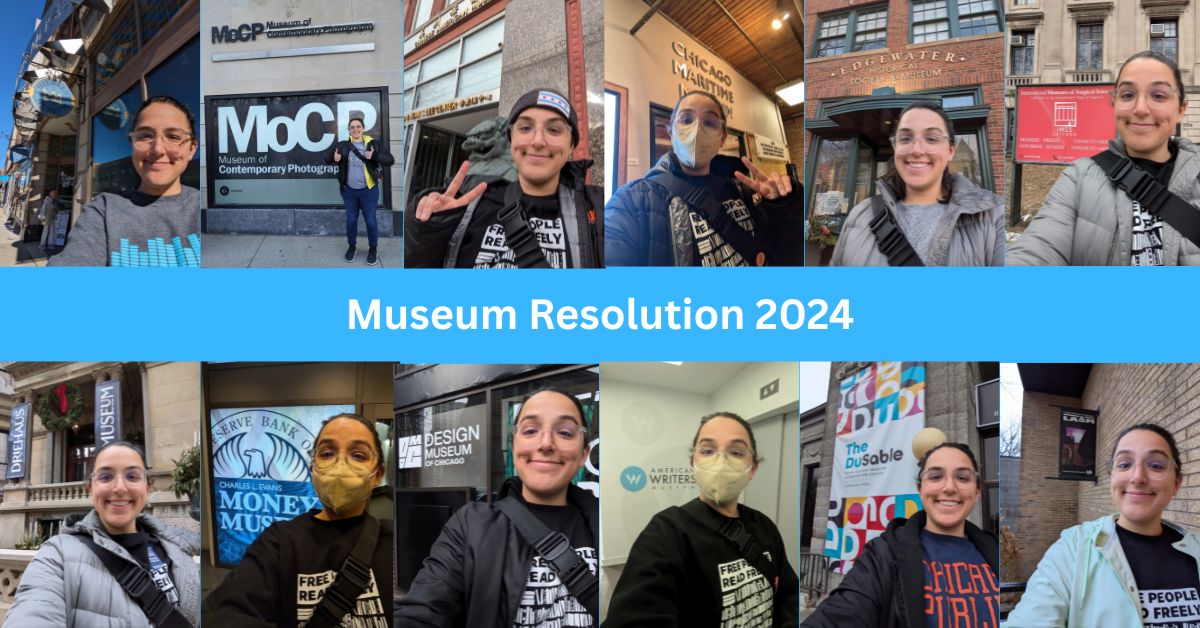
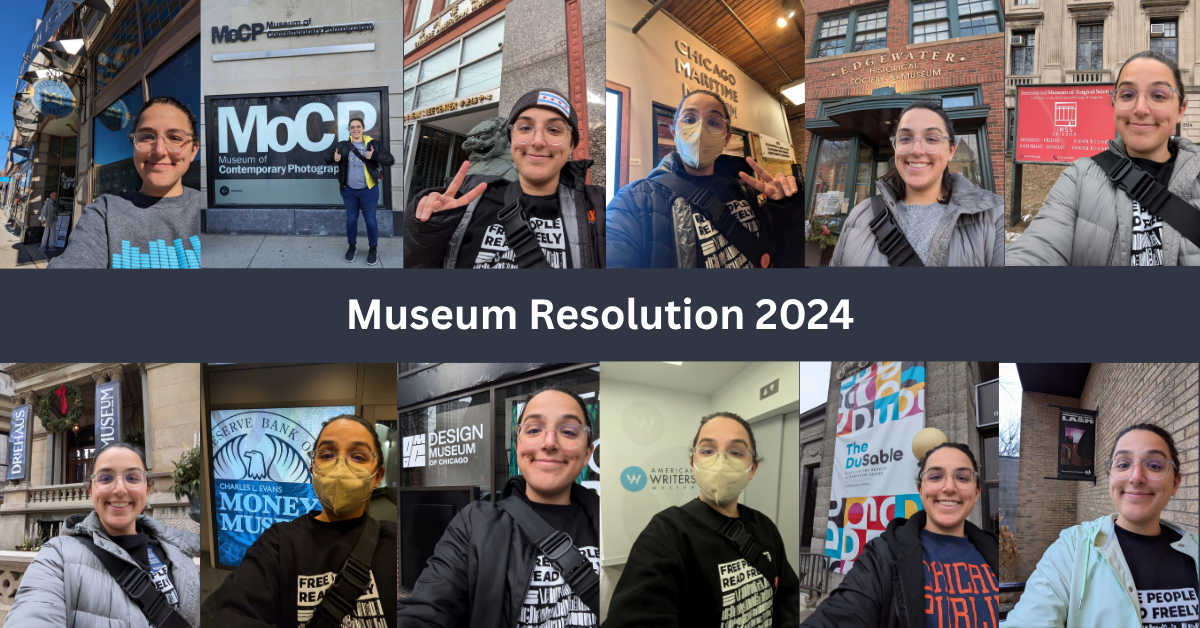
final? post content

diff --git a/_posts/2026-08-25-museum-resolution.md b/_posts/2026-08-25-museum-resolution.md
@@ -2,15 +2,79 @@
 title: "My Year of Museums"
 date: 2026-08-26 17:00:00 -0500
 categories: [Chicago]
-description: "In 2024, I set a New Year's resolution to visit twelve new-to-me museums in Chicago. Here's how it went."  
+description: "In 2024, I set a new year's resolution to visit twelve new-to-me museums in Chicago. Here's how it went."  
 image:
   path: /assets/img/posts/museum_resolution_header.png
-  alt: ["A diagram showing a bus icon labeled 'vehicle', a rightward arrow, and then a person icon labeled 'rider'"]
+  alt: ["Selfies of me outside a bunch of museums in Chicago with the label 'Museum Resolution 2024'"]
 ---
 
 # My Museum Resolution
 
+Like many people, I have had an ambivalent relationship with new year's resolutions. I've often vaguely tried to instill better habits or quit bad ones, usually without much commitment or success. A couple of years ago, though, I was inspired by a screenshot of a Tumblr post to try a new approach: 
+
+!["Screenshot of a Tumblr post that says: 'every time i ask people if they do any new years resolutions its all ooooo i dont like making them bc i fail or ohhhhh no i couldnt keep up wiht that and then when they ask me and i tell them about Pasta Quest (i am eating as many different pasta shapes as possible in the space of a year) or when i did Fruit Adventures (every time i saw a fruit i had never eaten before id get one and eat it and read the wikipedia article about it) theyre like hang on i forgot you can make Fun Ones i want a fun one'"](/assets/img/posts/you-can-make-fun-ones.png){: width="250" }
+_"i forgot you can make Fun Ones i want a fun one"_
+
+So, in 2024, I chose a "fun" resolution. Influenced partially by the then-forthcoming opening of the National Public Housing Museum (more on that later), I decided to visit 12 museums that:
+
+1. I had never been to before
+2. Are located inside the city of Chicago
+3. Have the word "museum" in their name
+
+The 2nd and 3rd requirements are admittedly pretty arbitrary but I wanted to explore the city specifically and I wanted to give myself a rule up front about what "counts" as a museum. 
+
+The 1st criterion ruled out (in no particular order): the Field Museum, the Museum of Science and Industry, the National Museum of Mexican Art, the Smart Museum, the Chicago History Museum, the Institute for the Study of Ancient Cultures Museum, the Museum of Contemporary Art, and possibly others. The Art Institute, Newberry Library, Cultural Center, Robie House, and the weird little gallery inside the Water Tower would technically be disqualified under #3 but were moot because of #1. 
+
+## Where I went
+
+With the criteria established, I ended up visiting the following museums (in chronological order and included on map below):
+
+1. [Swedish American Museum](https://www.swedishamericanmuseum.org/)
+2. [Museum of Contemporary Photography](https://mocp.org/)
+3. [Chinese American Museum of Chicago](https://www.camochicago.org/)
+4. [Chicago Maritime Museum](https://www.chicagomaritimemuseum.org/)
+5. [Edgewater Historical Society Museum](https://www.edgewaterhistory.org/)
+6. [International Museum of Surgical Science](https://www.imss.org/)
+7. [Driehaus Museum](https://www.driehausmuseum.org/)
+8. [Chicago Fed Money Museum](https://www.chicagofed.org/education/money-museum/index)
+9. [Design Museum of Chicago](https://designchicago.org/)
+10. [American Writers Museum](https://www.americanwritersmuseum.org/)
+11. [DuSable Black History Museum](https://dusablemuseum.org/)
+12. [Leather Archives and Museum](https://www.leatherarchives.org/)
+
+I went to some museums on my own and others with an assortment of friends and family -- shout out to D, K, D's mom L, P, E, and J for joining various museum adventures. 
+
+2024 was a pretty calamitous year for me and my family, so the timing on the resolution ended up being very uneven; rather than a nice monthly cadence (which was the goal with the "12" target), I ended up visiting 10 museums in the last two weeks of December. Oh well!
+
+Though it wasn't technically part of the resolution, I did get a picture of myself at each museum (included in the header image on this post), and I liveblogged the process in [this Bluesky thread](https://bsky.app/profile/laurie-merrell.bsky.social/post/3ldmgj3pdvv2q). My facial expressions in the photos do not necessarily reflect any sort of review of the given museum. 
+
+## Map
+
+Getting out and about in the city was part of the goal of the resolution. Because of the time crunch (trying to speedrun ten museums in two weeks around Christmas), I ended up going to a lot of Far North Side and Downtown museums and did not explore as many neighborhoods as I might have hoped. Basically all the museums I went to were roughly off the Red Line or 22; the DuSable is the only one that I drove to. 
 
 <iframe src="/scripts_and_scratch/museum_map.html" height="600px" width="100%" style="border:none;"></iframe>
 
-*Map creation & embedding followed this tutorial: [https://jayrobwilliams.com/posts/2020/09/jekyll-html](https://jayrobwilliams.com/posts/2020/09/jekyll-html). Images from this resolution were previously shared in [this Bluesky thread](https://bsky.app/profile/laurie-merrell.bsky.social/post/3ldmgj3pdvv2q).*
+## Missed opportunities
+
+The [National Public Housing Museum](https://nphm.org/) was a big inspiration for the resolution, since it was slated to open in 2024, but it ended up not actually opening that year so it did not end up being included. I also wanted to visit the [McCormick Bridge House & Chicago River Museum](https://www.bridgehousemuseum.org/) but missed the opening season. 
+
+I also wish I had taken better notes or journaled as I went, and posted a writeup like this sooner.
+
+## Reflections
+
+I really enjoyed this resolution and would highly recommend something similar to others. It was very generative and interesting to go to a bunch of museums in a short period of time since it fosters a comparative and additive experience that I don't always associate with museums. For example, I learned about the photojournalist [Jun Fujita](https://en.wikipedia.org/wiki/Jun_Fujita) at the Chicago Maritime Museum (in the context of his photos of the [SS Eastland disaster](https://en.wikipedia.org/wiki/SS_Eastland)) and then saw his photography of [the 1919 race riot](https://en.wikipedia.org/wiki/Chicago_race_riot_of_1919) at the DuSable. 
+
+I also found it valuable to go to museums that were so different from one another and covered a range of types, scales, and perspectives. I saw some strong commonalities between the Swedish American Museum and the Chinese American Museum of Chicago and the roles that they try to play for their communities, while the Leather Museum is communally-focused in overlapping but different ways.
+
+I didn't emerge with an overall ranking of the museums; despite the premise here, "going to a museum" is not really a totally generic or interchangeable activity and I think different people will get different things out of all these museums. I might recommend one to one person and another to another, based on each person's interests. 
+
+That said, I will note two that I would recommend broadly for different reasons -- not necessarily *over* the others but just for reasons that I think might be of interest to a broad range of people:
+
+*  The DuSable Museum is striking and I wish that I had gone sooner. The artifacts there are particularly unique, informative, and compelling (in some cases, associated with profound historical violence.) They cover some Chicago-specific history regarding Harold Washington, the 1919 race riot, and the Black Panther Party that I think Chicagoans should know.
+
+* The Design Museum of Chicago is thought provoking (though they don't have any permanent exhibits, so the content has fully changed since my 2024 visit), contemporary, free, and right across the street from the Cultural Center. The Cultural Center is one of my big recommendations for visitors who want to go downtown, so I would add the Design Museum to a day out at the Cultural Center and Millennium Park. 
+
+However, my biggest recommendation is just: go to more museums! There are dozens and dozens of museums in a city like Chicago and they reflect an immense amount of care and effort from people working to curate and communicate information about different communities and topics. Going to museums in person is a chance to engage with information in an embodied way distinct from the screen-mediated day-to-day. Something like a new year's resolution can provide motivation and structure, but it's certainly not necessary.
+
+
+*Map creation & embedding followed [this tutorial](https://jayrobwilliams.com/posts/2020/09/jekyll-html) with some updates to handle Carto API key requirements. Cover photos were previously shared in [the above-linked Bluesky thread](https://bsky.app/profile/laurie-merrell.bsky.social/post/3ldmgj3pdvv2q). I found the Tumblr screenshot & [original citation](https://www.tumblr.com/songofsaraneth/717166954063003648/every-time-i-ask-people-if-they-do-any-new-years) in [this Reddit post](https://www.reddit.com/r/CuratedTumblr/comments/18n2wot/you_can_make_fun_ones/).*
